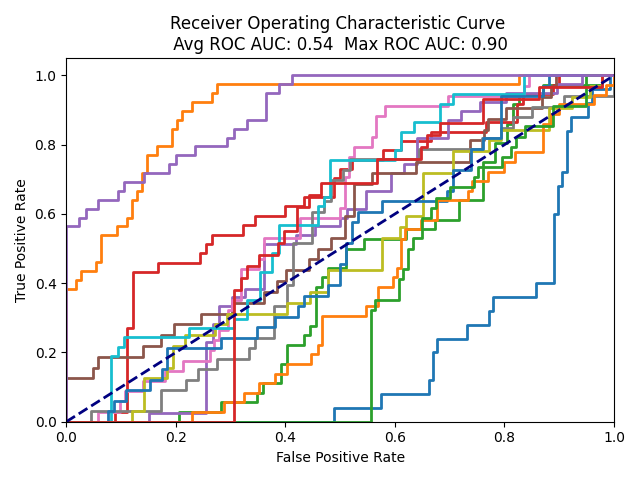
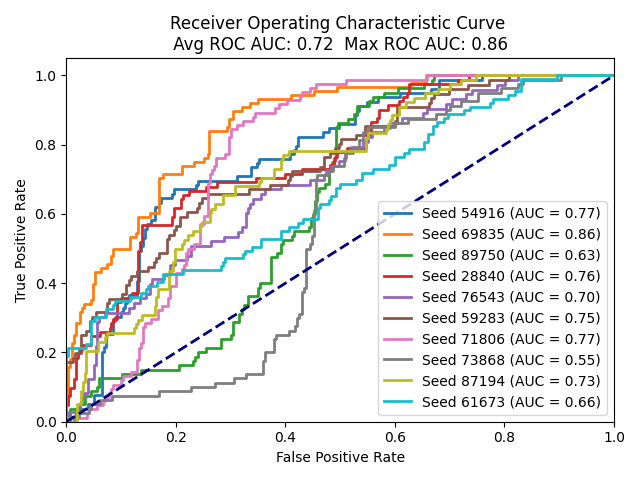
concatenation 5 best models

diff --git a/main_iterations.py b/main_iterations.py
@@ -2,6 +2,8 @@ import numpy as np
 import matplotlib.pyplot as plt
 import torch
 import pandas as pd
+import csv
+from sklearn.metrics import roc_auc_score, roc_curve, auc
 
 from train import Model_extented
 import dataloader
@@ -16,34 +18,34 @@ auc_values = []
 training_accuracy_values = []
 validation_accuracy_values = []
 lw = 2 #line width
-nb_iterations = 15
+nb_iterations = 10
 results = []
+
+df = dataloader.load_data(target_output=configs.target_output)
 
 plt.figure()
 for k in range(nb_iterations):
 
     seed = np.random.randint(10000, 99999)
-    print(f"=========== ITERATION {k}/{nb_iterations-1} ------ SEED = {configs.SEED}")
+    print(f"=========== ITERATION {k}/{nb_iterations-1} ------ SEED = {seed}")
 
     # For reproductibility
     np.random.seed(seed)
     torch.manual_seed(seed)
-    torch.cuda.manual_seed_all(cseed)
+    torch.cuda.manual_seed_all(seed)
     torch.backends.cudnn.deterministic = True
     torch.backends.cudnn.benchmark = False
 
     # Load data
-    df = dataloader.load_data(target_output=configs.target_output)
-    train_patients, valid_patients, test_patients = dataloader.split_data(df = df, seed)
-    trainloader, validloader, testloader = dataloader.create_dataloader(df, train_patients, valid_patients, test_patients, target_output=configs.target_output)
-
+    train_patients, valid_patients, test_patients = dataloader.split_data(df = df, random_seed=seed)
+    trainloader, validloader, _ = dataloader.create_dataloader(df, train_patients, valid_patients, test_patients, target_output=configs.target_output)
 
     # Load model
     model = get_model(prob=0.5, image_backbone="se_resnext50_32x4d", pretrained = "medical", classifier=Classifier_Many_Layers, metadata=True) #prob = prob for dropout
     my_model=Model_extented(model, epochs=5, lr=1e-3)
 
     # Training
-    my_model.trainloop(trainloader, validloader, testloader)
+    my_model.trainloop(trainloader, validloader)
 
     # # Training loss and validation loss
     # plt.plot(my_model.loss_during_training,label='Training Loss')
@@ -66,7 +68,7 @@ for k in range(nb_iterations):
     auc_values.append(results_auc_roc[0])
     fpr = results_auc_roc[1]
     tpr = results_auc_roc[2]
-    plt.plot(fpr, tpr, lw=lw, label=f'Seed {configs.SEED} (AUC = {results_auc_roc[0]:.2f})')
+    plt.plot(fpr, tpr, lw=lw, label=f'Seed {seed} (AUC = {results_auc_roc[0]:.2f})')
 
 avg_roc_auc = np.mean(auc_values)
 print("Average ROC AUC:", avg_roc_auc)
@@ -82,7 +84,7 @@ plt.ylim([0.0, 1.05])
 plt.xlabel('False Positive Rate')
 plt.ylabel('True Positive Rate')
 plt.title(f'Receiver Operating Characteristic Curve \n Avg ROC AUC: {avg_roc_auc:.2f}  Max ROC AUC: {max_roc_auc:.2f} ')
-if nb_iterations<10 :
+if nb_iterations<11 :
     plt.legend(loc="lower right")
 plt.tight_layout()
 # plt.show()
@@ -103,15 +105,44 @@ top_5_models = sorted(results, key=lambda x: x['auc_roc_val'], reverse=True)[:5]
 print("Top 5 models:", top_5_models)
 
 # Split
-
+train_patients, valid_patients, test_patients = dataloader.split_data(df = df, random_seed=configs.SEED)
+_, _, testloader = dataloader.create_dataloader(df, train_patients, valid_patients, test_patients, target_output=configs.target_output)
 
 # Predict for each 5
-predict = []
+all_predictions = []
+labels_ref = None
 for item in top_5_models:
     seed = item['seed']
-    auc = item['auc_val']
-    path = f"checkpoints/model_seed_{seed}_auc_{auc:.4f}.pt"
+    auc_roc_val = item['auc_roc_val']
+    model = get_model(prob=0.5, image_backbone="se_resnext50_32x4d", pretrained = "medical", classifier=Classifier_Many_Layers, metadata=True) #prob = prob for dropout
+    path = f"checkpoints/model_seed_{seed}_auc_{auc_roc_val:.4f}.pt"
+    state_dict = torch.load(path, map_location=configs.device)
+    model.load_state_dict(state_dict)
+    my_model=Model_extented(model, epochs=5, lr=1)
+    labels, probs = my_model.return_outputs(testloader)
+
+    if labels_ref is None:
+        labels_ref = labels
+    else:
+        assert np.array_equal(labels_ref, labels)
+
+    all_predictions.append(probs)
 
 # Take the mean of predictions
+mean_predictions = np.mean(np.stack(all_predictions), axis=0)
 
 # Final auc roc score
+fpr, tpr, _ = roc_curve(labels_ref, mean_predictions) #false positiv rate and true positiv rate
+auc_roc = auc(fpr, tpr) 
+plt.figure()
+plt.plot(fpr, tpr, lw=lw, label=f'(AUC = {auc_roc:.2f})')
+plt.plot([0, 1], [0, 1], color='navy', lw=lw, linestyle='--')
+plt.xlim([0.0, 1.0])
+plt.ylim([0.0, 1.05])
+plt.xlabel('False Positive Rate')
+plt.ylabel('True Positive Rate')
+plt.title(f'Receiver Operating Characteristic Curve \n 5 models concatenation')
+plt.tight_layout()
+plt.savefig(f"{configs.DIR}/results/auc roc 5-model ensemble.png") 
+plt.close()
+print(f"AUC ROC (5-model ensemble) = {auc_roc:.4f}")

diff --git a/train.py b/train.py
@@ -2,6 +2,7 @@ import time
 import matplotlib.pyplot as plt
 import numpy as np
 import pandas as pd
+from tqdm import tqdm
 
 import torch
 from torch import optim
@@ -39,7 +40,7 @@ class Model_extented(nn.Module):
     def forward(self, image, meta):
         return self.model(image, meta)
 
-    def trainloop(self, trainloader, validloader, testloader):
+    def trainloop(self, trainloader, validloader):
         self.model.train()
         scheduler = StepLR(self.optim, step_size=2, gamma=0.5) # Every 2 epochs, split lr by 2
         for epoch in range (self.epochs):
@@ -47,7 +48,7 @@ class Model_extented(nn.Module):
             start_time = time.time()
             running_loss = 0.0
             train_accuracy = 0.0
-            for batch in trainloader:
+            for batch in tqdm(trainloader, total=len(trainloader), desc="Training"):
                 inputs = batch['image']
                 meta = batch['meta']
                 labels = batch['label']
@@ -75,7 +76,7 @@ class Model_extented(nn.Module):
             with torch.no_grad():
                 val_loss = 0.0
                 val_accuracy = 0.0
-                for batch in validloader:
+                for batch in tqdm(validloader, total=len(validloader), desc="Validation"):
                     inputs = batch['image']
                     meta = batch['meta']
                     labels = batch['label']
@@ -138,14 +139,14 @@ class Model_extented(nn.Module):
         all_labels = []
         all_probs = []
         with torch.no_grad():
-            for batch in dataloader:
+            for batch in tqdm(dataloader, total=len(dataloader), desc="Predicting"):
                 inputs = batch['image']
                 meta = batch['meta']
                 labels = batch['label']
                 inputs, meta, labels = inputs.float().to(self.device), meta.float().to(self.device), labels.float().to(self.device)
                 outputs = self.forward(image=inputs, meta=meta)
                 probs = torch.sigmoid(outputs)
-                print("Max prob in batch:", probs.max().item())
+                # print("Max prob in batch:", probs.max().item())
 
                 all_labels.append(labels.cpu())
                 all_probs.append(probs.cpu())
@@ -318,7 +319,7 @@ class Model_extented(nn.Module):
         all_labels = []
         all_probs = []
         with torch.no_grad():
-            for batch in dataloader:
+            for batch in tqdm(dataloader, total=len(dataloader), desc="Calculating auc roc score"):
                 inputs = batch['image']
                 meta = batch['meta']
                 labels = batch['label']
@@ -333,7 +334,7 @@ class Model_extented(nn.Module):
         all_labels = torch.cat(all_labels).numpy()
         all_probs = torch.cat(all_probs).numpy()
 
-        fpr, tpr, thresholds = roc_curve(all_labels, all_probs) #false positiv rate and true positiv rate
+        fpr, tpr, _ = roc_curve(all_labels, all_probs) #false positiv rate and true positiv rate
         roc_auc = auc(fpr, tpr) # same as roc_auc_score but different method
 
         self.model.train()

diff --git a/dataloader.py b/dataloader.py
@@ -7,6 +7,8 @@ import numpy as np
 import pydicom
 from albumentations import Compose, Resize, CenterCrop
 import cv2
+import csv
+
 # from iterstrat.ml_stratifiers import MultilabelStratifiedShuffleSplit
 from sklearn.model_selection import train_test_split
 from torch.utils.data import DataLoader, WeightedRandomSampler
@@ -156,7 +158,7 @@ def load_data(target_output=configs.target_output):
     metadata_df = metadata_df[:197] # Delete the last lines of the excel that contains totals
 
     # Add metadata to data_df
-    data_df['HSA'] = data_df['Path'].apply(lambda x: x.split('/')[patiente])
+    data_df['HSA'] = data_df['Path'].apply(lambda x: x.split('/')[configs.patient])
     data_df = pd.merge(data_df, metadata_df, on='HSA', how='left')
 
     return data_df
@@ -192,11 +194,10 @@ def load_data(target_output=configs.target_output):
 # data2_df['HSA'] = data2_df['Path'].apply(lambda x: x.split('/')[patiente])
 # data2_df = pd.merge(data2_df, metadata2_df, on='HSA', how='left')
 
-def split_data(df = data_df, random_seed):
+def split_data(df, random_seed):
     # Stratified split in patients 
-    patiente = configs.patient #index of {patiente} in the path
     patient_df = df.copy()
-    patient_df["HSA"] = patient_df["Path"].apply(lambda x: x.split('/')[patiente])
+    patient_df["HSA"] = patient_df["Path"].apply(lambda x: x.split('/')[configs.patient])
     patient_df = patient_df.groupby("HSA")[configs.target_output].max().reset_index()  # patient's label = 1 if at least one image is positive
 
     # Initial split: test set is fixed once
@@ -227,12 +228,12 @@ def split_data(df = data_df, random_seed):
 
 
 # Everything inside create_dataloader to be able to change the seed with main_40_iterations
-def create_dataloader(data_df, train_patients, valid_patients, test_patients, target_output=configs.target_output):
+def create_dataloader(data_df, train_patients, valid_patients, test_patients, target_output):
 
     # Create DataFrames
-    train_df = data_df[data_df['Path'].apply(lambda x: x.split('/')[patiente] in train_patients["HSA"].values)]
-    valid_df = data_df[data_df['Path'].apply(lambda x: x.split('/')[patiente] in valid_patients["HSA"].values)]
-    test_df = data_df[data_df['Path'].apply(lambda x: x.split('/')[patiente] in test_patients["HSA"].values)]
+    train_df = data_df[data_df['Path'].apply(lambda x: x.split('/')[configs.patient] in train_patients["HSA"].values)]
+    valid_df = data_df[data_df['Path'].apply(lambda x: x.split('/')[configs.patient] in valid_patients["HSA"].values)]
+    test_df = data_df[data_df['Path'].apply(lambda x: x.split('/')[configs.patient] in test_patients["HSA"].values)]
 
     # for later to test on new data : 
     # test_df = data2_df[data2_df['Path'].apply(lambda x: x.split('/')[patient_data2] in data2_df["HSA"].values)]

diff --git a/main.py b/main.py
@@ -35,7 +35,7 @@ model = get_model(prob=0.5, image_backbone="se_resnext50_32x4d", pretrained = "m
 my_model=Model_extented(model, epochs=5, lr=1e-3)
 
 # Training
-my_model.trainloop(trainloader, validloader, testloader)
+my_model.trainloop(trainloader, validloader)
 
 # à bouger de place
 # Save weights
